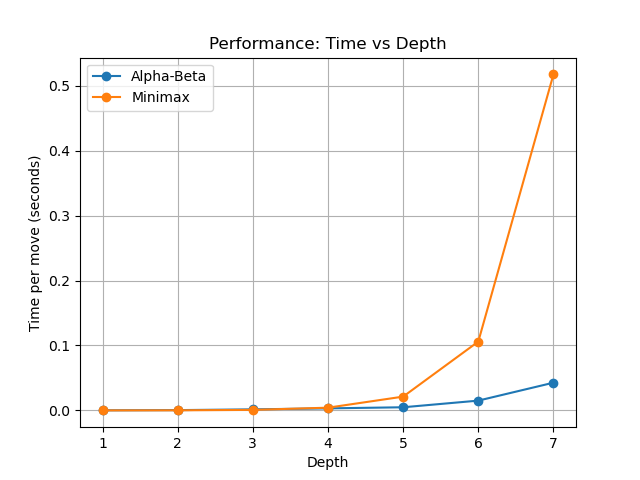
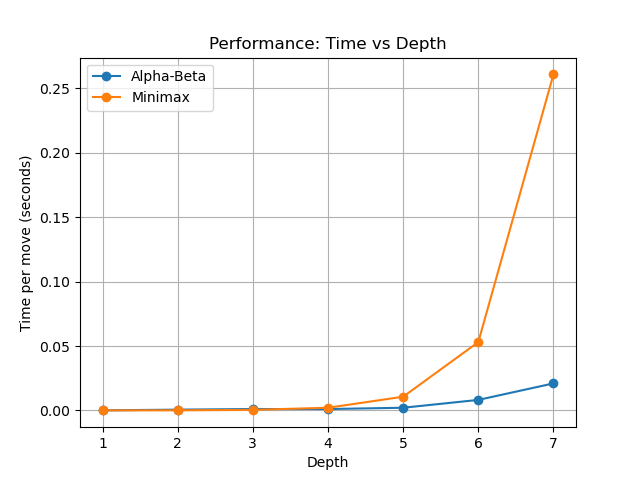
new plots with N=200 games and adjusted randomness

diff --git a/src/benchmark.py b/src/benchmark.py
@@ -16,8 +16,8 @@ def run_games(p1_depth, p2_depth, p1_ab, p2_ab, n_games=50):
         ai2 = AIPlayer(2, depth=p2_depth, use_alpha_beta=p2_ab)
         game = Game(ai1, ai2)
 
-        # Diverse openings with 2 random moves
-        for _ in range(2):
+        # Diverse openings with 1 random moves
+        for _ in range(1):  # changed from 2 random moves to 1 to have a more similar tree and more stable results
             if game.board.is_terminal():
                 break
             valid = game.board.get_valid_moves(game.current)
@@ -42,7 +42,7 @@ def fmt(label1, label2, results, n):
     return f"  {label1:<25} vs {label2:<25} | P1: {p1:>2}/{n}  P2: {p2:>2}/{n}  Draw: {d:>2}/{n}"
 
 def main():
-    N = 50
+    N = 200 # increased number of games to have a bigger sample size
     print(f"=== KALAH BENCHMARK ({N} games per matchup) ===\n")
 
     # --- Experiment 1 ---

diff --git a/src/plot_benchmark.py b/src/plot_benchmark.py
@@ -7,10 +7,10 @@ from benchmark import run_games
 from ai_player import AIPlayer
 from board import Board
 
-N = 50  # number of games
+N = 200  # number of games
 
 def winrate_experiment():
-    depths = [3, 5, 7]
+    depths = [1, 2, 3, 4, 5, 6, 7]
 
     ab_winrates = []
     mm_winrates = []
@@ -42,6 +42,7 @@ def winrate_experiment():
 
     plt.savefig("winrate_comparison.png")
     plt.show()
+
 
 def time_experiment():
     depths = [2, 3, 4, 5, 6]
